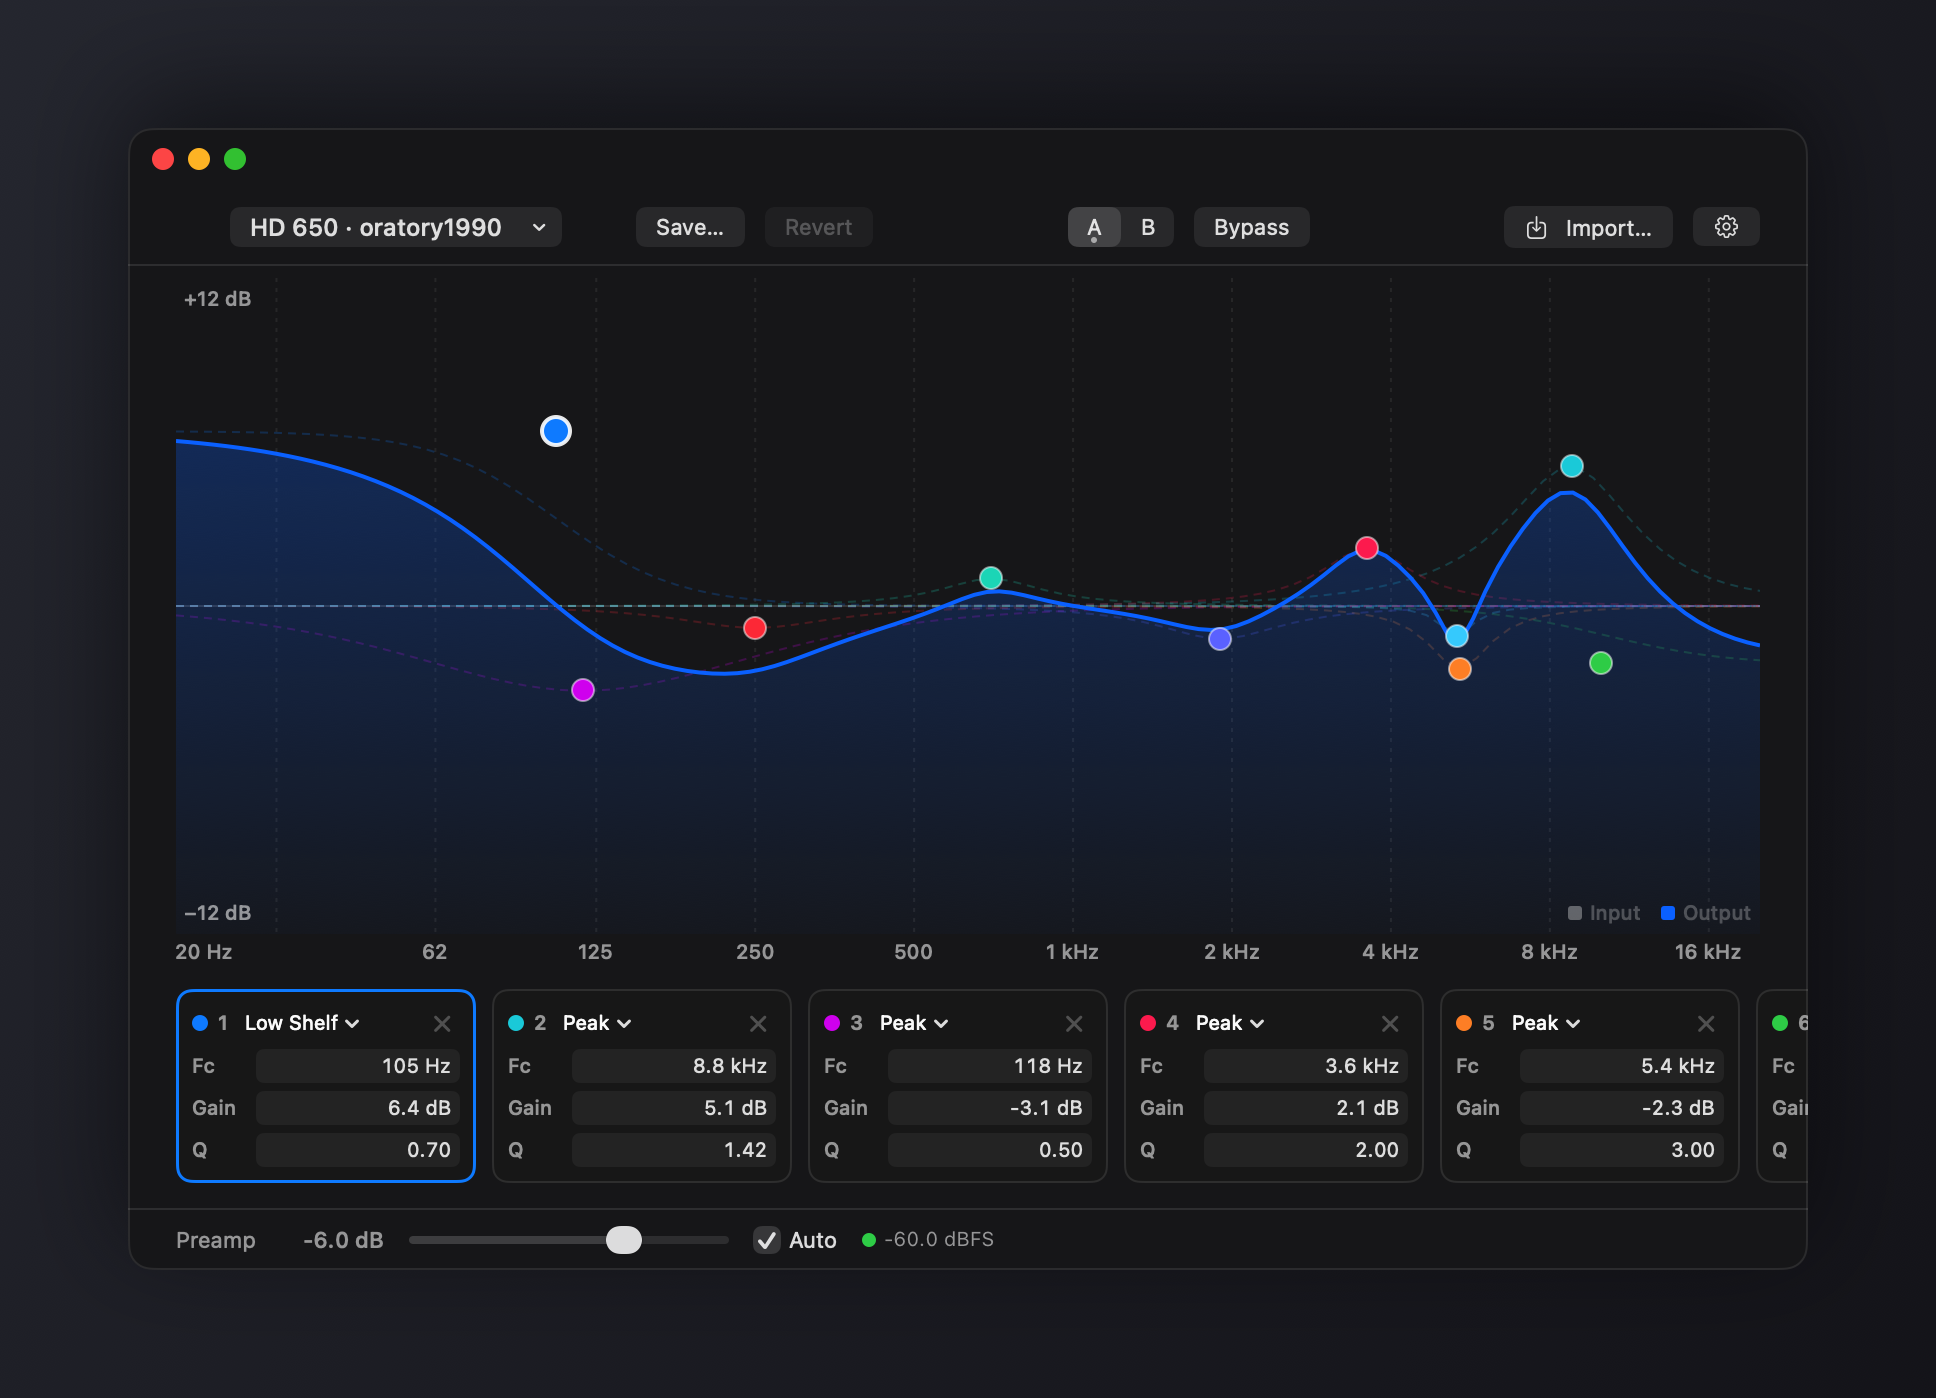
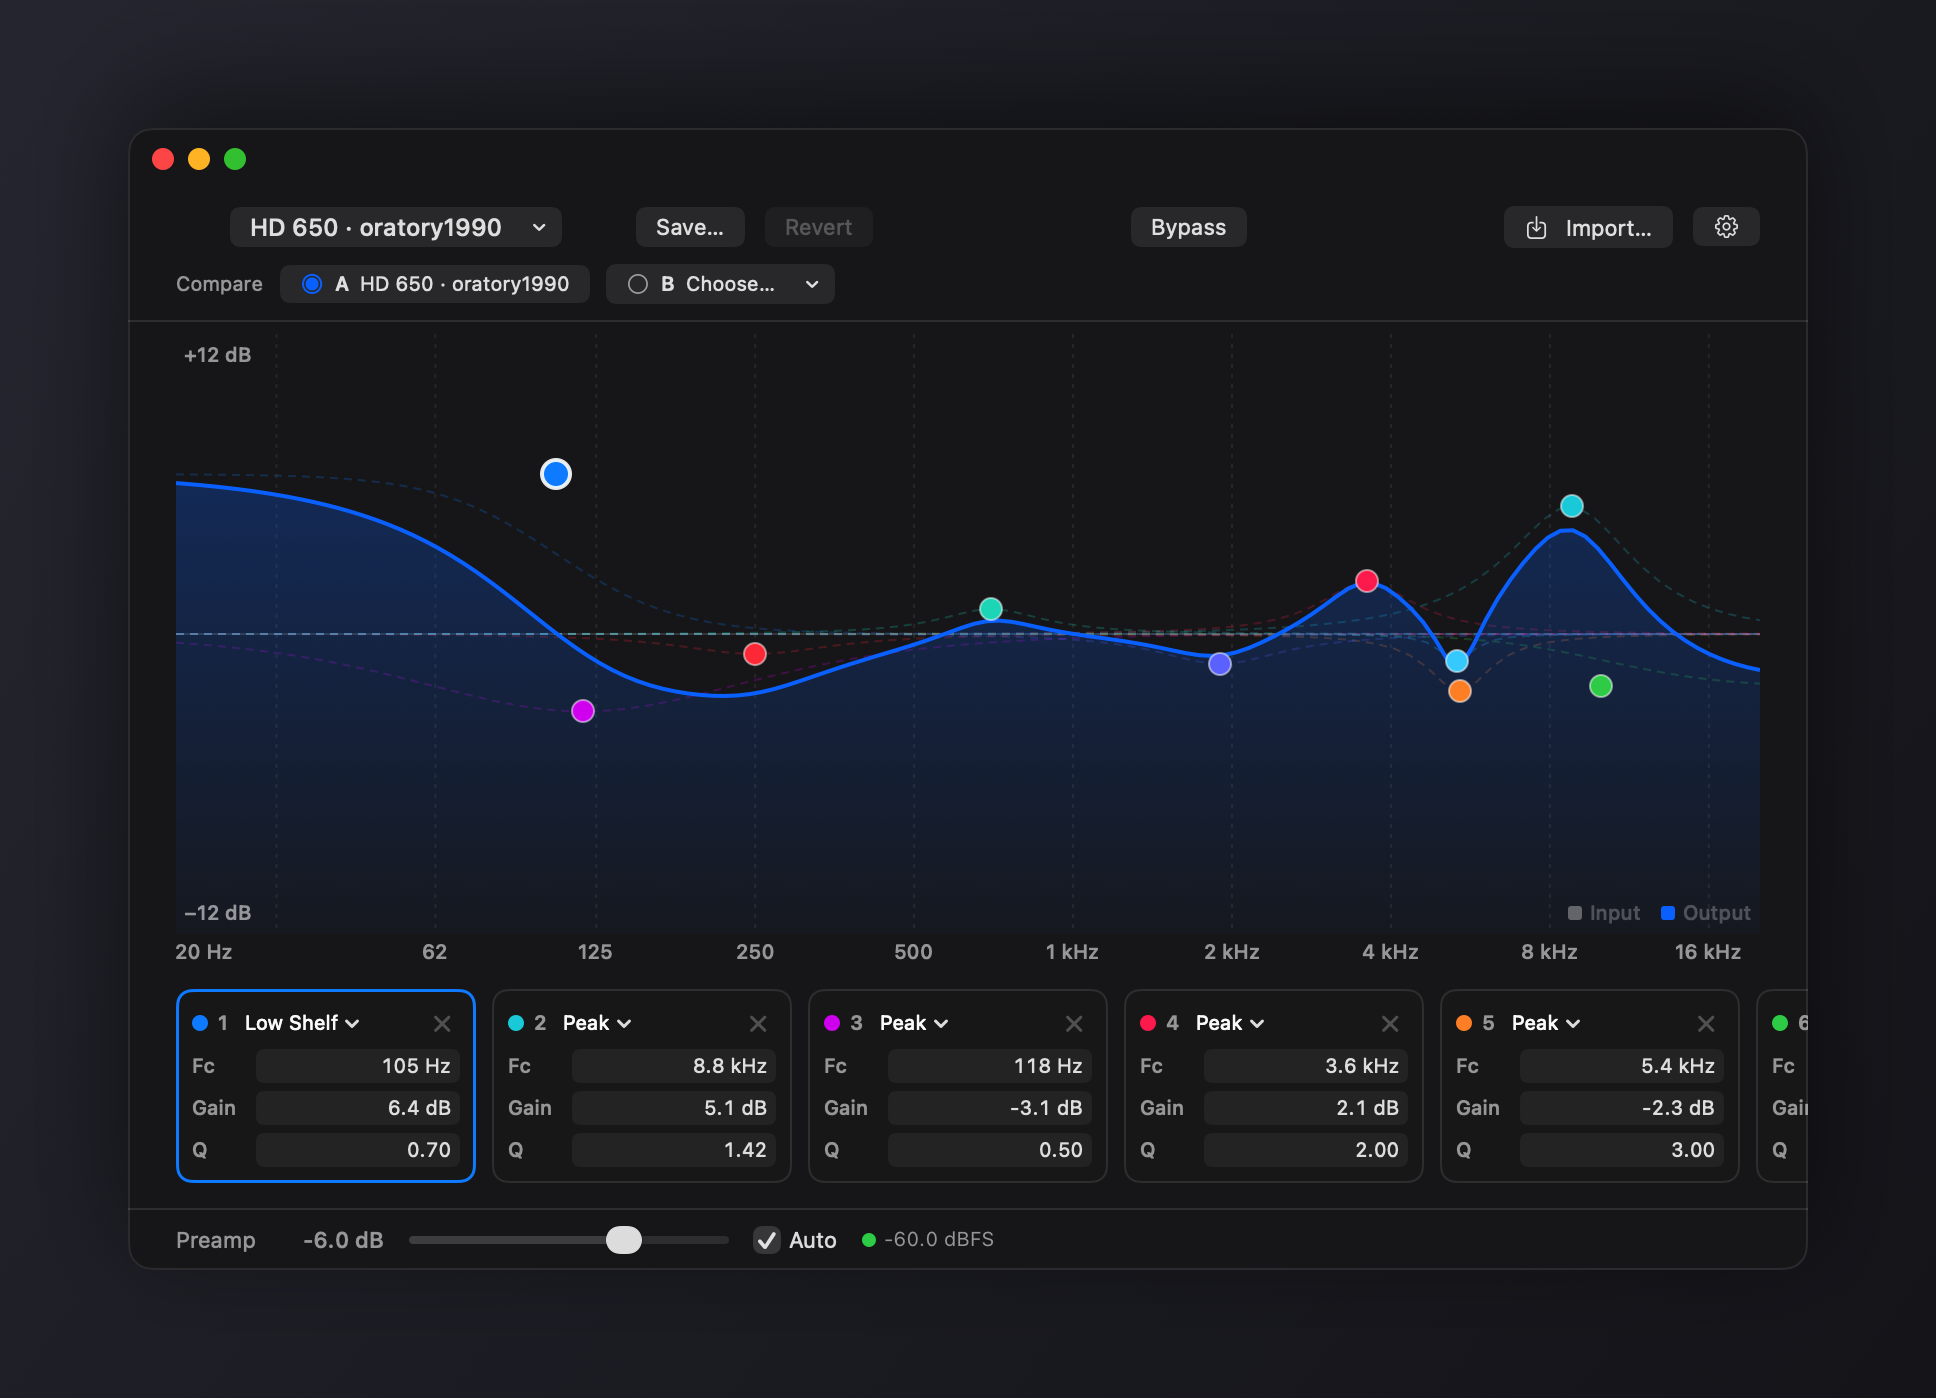
feat: replace segmented A/B with named compare slots (#35)
A Compare row under the toolbar shows two pills, each naming the curve
it holds and marking edits. The selected pill is the working copy; the
other is the reference. An empty slot is a Choose… menu of presets plus
Import…; compare(with:inSlot:) fills it and switches as one undo step.
The segmented picker and its dots are gone.

diff --git a/Sources/OnlyEQ/UI/EditorView.swift b/Sources/OnlyEQ/UI/EditorView.swift
@@ -35,6 +35,7 @@ struct EditorView: View {
                 SettingsView()
             } else {
                 toolbar
+                compareRow
                 Divider()
                 graph
                 bandStrip
@@ -61,22 +62,79 @@ struct EditorView: View {
         }
     }
 
-    // MARK: - A/B
+    // MARK: - Compare (A/B)
 
-    private func abSlotIsFilled(_ slot: Int) -> Bool {
-        slot == state.abSlot || state.otherABSlotIsFilled
+    /// Two slots. The selected one is the working copy: what you hear and
+    /// edit. The other waits unchanged as the reference. Each pill names the
+    /// curve it holds, so nothing about the mechanism has to be guessed.
+    private var compareRow: some View {
+        HStack(spacing: 8) {
+            Text("Compare")
+                .font(.caption)
+                .foregroundStyle(.secondary)
+            slotPill(0)
+            slotPill(1)
+            Spacer()
+        }
+        .controlSize(.small)
+        .padding(.horizontal, 24)
+        .padding(.bottom, 8)
+        .help("Two slots. The selected one is what you hear and edit; the other waits unchanged. Switching is level-matched.")
     }
 
-    private var abStatus: String {
-        let other = state.abSlot == 0 ? "B" : "A"
-        return state.otherABSlotIsFilled ? "\(other) holds a curve" : "\(other) is empty"
+    @ViewBuilder
+    private func slotPill(_ slot: Int) -> some View {
+        let letter = slot == 0 ? "A" : "B"
+        let isSelected = state.abSlot == slot
+        if let held = state.abPreset(inSlot: slot) {
+            let name = held.name + (state.abSlotIsModified(slot) ? " (edited)" : "")
+            Button {
+                state.storeABAndSwitch(to: slot, undoManager: undoManager)
+            } label: {
+                slotLabel(letter, name: name, isSelected: isSelected)
+            }
+            .buttonStyle(.bordered)
+            .tint(isSelected ? Color.accentColor : nil)
+            .help(isSelected
+                  ? "\(letter): \(name). Selected: this is what you hear and edit."
+                  : "\(letter): \(name). Waiting unchanged. Click to switch, level-matched.")
+            .accessibilityLabel("Slot \(letter), \(name)")
+            .accessibilityAddTraits(isSelected ? [.isSelected] : [])
+        } else {
+            Menu {
+                ForEach(state.store.allPresets) { preset in
+                    Button(preset.name) {
+                        state.compare(with: preset, inSlot: slot, undoManager: undoManager)
+                    }
+                }
+                Divider()
+                Button("Import…") {
+                    state.storeABAndSwitch(to: slot, undoManager: undoManager)
+                    importPresentation = ImportPresentation(profileSuggestion: nil)
+                }
+            } label: {
+                // A macOS Menu label keeps only one Text, so this one is concatenated.
+                (Text(Image(systemName: "circle")).foregroundColor(.secondary)
+                    + Text("  \(letter)  ").fontWeight(.semibold)
+                    + Text("Choose…"))
+                    .font(.caption)
+            }
+            .fixedSize()
+            .help("Pick a preset or import one to compare against \(slot == 0 ? "B" : "A"). Nothing is saved until you press Save.")
+            .accessibilityLabel("Slot \(letter), empty. Choose a preset to compare")
+        }
     }
 
-    private var abHelp: String {
-        let other = state.abSlot == 0 ? "B" : "A"
-        return state.otherABSlotIsFilled
-            ? "Compare two versions. Switching stores the current curve in the slot you leave."
-            : "Compare two versions. \(other) is empty; switching copies the current curve into it."
+    private func slotLabel(_ letter: String, name: String, isSelected: Bool) -> some View {
+        HStack(spacing: 5) {
+            Image(systemName: isSelected ? "largecircle.fill.circle" : "circle")
+                .font(.caption2)
+                .foregroundStyle(isSelected ? Color.accentColor : Color.secondary)
+            Text(letter).font(.caption.weight(.semibold))
+            Text(name).font(.caption).lineLimit(1).truncationMode(.middle)
+                .frame(maxWidth: 200)
+        }
+        .fixedSize()
     }
 
     // MARK: - Toolbar
@@ -114,34 +172,6 @@ struct EditorView: View {
                 .help("Discard edits and return to the saved preset")
 
             Spacer()
-
-            Picker("A/B", selection: Binding(
-                get: { state.abSlot },
-                set: { state.storeABAndSwitch(to: $0, undoManager: undoManager) }
-            )) {
-                Text("A").tag(0)
-                Text("B").tag(1)
-            }
-            .pickerStyle(.segmented)
-            .labelsHidden()
-            .fixedSize()
-            // A dot under each slot that holds a curve, so an empty slot is
-            // visible before the first switch copies into it.
-            .overlay(alignment: .bottom) {
-                HStack(spacing: 0) {
-                    ForEach(0..<2, id: \.self) { slot in
-                        Circle()
-                            .fill(abSlotIsFilled(slot) ? Color.secondary : .clear)
-                            .frame(width: 3, height: 3)
-                            .frame(maxWidth: .infinity)
-                    }
-                }
-                .frame(maxWidth: .infinity)
-                .padding(.bottom, 2)
-                .allowsHitTesting(false)
-            }
-            .accessibilityValue(abStatus)
-            .help(abHelp)
 
             Toggle("Bypass", isOn: $state.bypassed)
                 .toggleStyle(.button)

diff --git a/Sources/OnlyEQ/App/AppState.swift b/Sources/OnlyEQ/App/AppState.swift
@@ -601,9 +601,18 @@ final class AppState: ObservableObject {
 
     // MARK: - A/B
 
-    /// True when the slot not currently in use already holds a curve. Until
-    /// then, switching copies the current curve into it.
-    var otherABSlotIsFilled: Bool { abPresets[1 - abSlot] != nil }
+    /// The curve a slot holds: the working preset for the selected slot, the
+    /// stored copy for the other, nil while the other slot is still empty.
+    func abPreset(inSlot slot: Int) -> EQPreset? {
+        slot == abSlot ? preset : abPresets[slot]
+    }
+
+    /// True when the curve in `slot` differs from the stored preset it came from.
+    func abSlotIsModified(_ slot: Int) -> Bool {
+        guard let held = abPreset(inSlot: slot),
+              let saved = store.allPresets.first(where: { $0.id == held.id }) else { return false }
+        return saved != held
+    }
 
     private struct ABSnapshot {
         var preset: EQPreset
@@ -624,7 +633,18 @@ final class AppState: ObservableObject {
         registerABUndo(restoring: before, undoManager: undoManager)
     }
 
-    private func registerABUndo(restoring snapshot: ABSnapshot, undoManager: UndoManager?) {
+    /// Puts `newPreset` in `slot` and switches to it, keeping the other slot
+    /// as the reference. One undo step.
+    func compare(with newPreset: EQPreset, inSlot slot: Int, undoManager: UndoManager? = nil) {
+        let before = abSnapshot
+        abPresets[abSlot] = preset
+        abSlot = slot
+        apply(newPreset)
+        registerABUndo(restoring: before, actionName: "Compare with \(newPreset.name)", undoManager: undoManager)
+    }
+
+    private func registerABUndo(restoring snapshot: ABSnapshot, actionName: String = "Switch A/B",
+                                undoManager: UndoManager?) {
         guard let undoManager else { return }
         undoManager.registerUndo(withTarget: self) { state in
             let current = state.abSnapshot
@@ -632,9 +652,9 @@ final class AppState: ObservableObject {
             state.abSlot = snapshot.slot
             state.preset = snapshot.preset
             state.flushWorkingPresetPersistence()
-            state.registerABUndo(restoring: current, undoManager: undoManager)
+            state.registerABUndo(restoring: current, actionName: actionName, undoManager: undoManager)
         }
-        undoManager.setActionName("Switch A/B")
+        undoManager.setActionName(actionName)
     }
 
     // MARK: - Volume

diff --git a/Sources/OnlyEQ/TestRunner.swift b/Sources/OnlyEQ/TestRunner.swift
@@ -632,14 +632,14 @@ enum TestRunner {
             let a = EQPreset(name: "A", bands: [EQBand(type: .peak, frequency: 1000, gain: 3, q: 1)])
             state.apply(a)
             if state.abSlot != 0 { state.storeABAndSwitch(to: 0) }
-            expect(!state.otherABSlotIsFilled || state.abSlot == 0, "test starts in slot A")
+            expect(state.abSlot == 0, "test starts in slot A")
 
             undo.beginUndoGrouping()
             state.storeABAndSwitch(to: 1, undoManager: undo)
             undo.endUndoGrouping()
             expect(state.abSlot == 1, "switching selects slot B")
             expect(state.preset == a, "an empty B starts as a copy of A")
-            expect(state.otherABSlotIsFilled, "A holds the curve that was left")
+            expect(state.abPreset(inSlot: 0) == a, "A holds the curve that was left")
             expect(undo.undoActionName == "Switch A/B", "the switch is an undo step")
 
             state.preset.bands[0].gain = -4
@@ -657,6 +657,20 @@ enum TestRunner {
             undo.removeAllActions()
             state.storeABAndSwitch(to: 0, undoManager: undo)
             expect(!undo.canUndo, "switching to the active slot registers nothing")
+
+            // Choosing a preset for a slot fills it and switches to it.
+            let c = EQPreset(name: "C", bands: [EQBand(type: .peak, frequency: 500, gain: 2, q: 1)])
+            undo.beginUndoGrouping()
+            state.compare(with: c, inSlot: 1, undoManager: undo)
+            undo.endUndoGrouping()
+            expect(state.abSlot == 1 && state.preset == c, "choosing a preset for B selects B holding it")
+            expect(state.abPreset(inSlot: 0) == a, "A keeps its curve as the reference")
+            expect(undo.undoActionName == "Compare with C", "the choice is one named undo step")
+            undo.undo()
+            expect(state.abSlot == 0 && state.preset == a && state.abPreset(inSlot: 1) == b,
+                   "undo restores the slot that was replaced")
+            state.preset.bands[0].gain = 9
+            expect(state.abSlotIsModified(0) == false, "an unsaved working preset is not marked edited")
         }
     }
 

diff --git a/README.md b/README.md
@@ -67,7 +67,7 @@ OnlyEQ checks for signed updates automatically and installs them in the backgrou
 - Parametric EQ with a draggable curve editor. Peak, shelves, high/low pass, notch, band pass — as many bands as you want. Every edit undoes with Cmd-Z. Arrow keys nudge the selected band (Option for fine steps), Delete removes it, and VoiceOver reads and adjusts every handle.
 - Imports every headphone EQ format I could find: AutoEq, Equalizer APO, peqdb, Wavelet/GraphicEQ, Poweramp, OPRA, Peace, REW, eqMac. Drop a file, paste text, or search the peqdb and AutoEq databases from inside the app. Anything you apply is saved and stays in the preset picker.
 - Per-device profiles. Your headphone preset kicks in when the headphones connect; your speakers keep theirs.
-- Volume boost up to 200%, automatic preamp so boosted EQ doesn't clip, a limiter as a safety net, A/B compare, one-click bypass. Bypass keeps the preamp and matches loudness to the EQ'd signal, so the comparison is about tone instead of the louder side winning.
+- Volume boost up to 200%, automatic preamp so boosted EQ doesn't clip, a limiter as a safety net, a Compare row with two named slots (the selected one is what you hear and edit, the other waits as the reference), one-click bypass. Bypass keeps the preamp and matches loudness to the EQ'd signal, so the comparison is about tone instead of the louder side winning.
 - Loudness compensation: raises bass and treble as you turn the volume down below a reference level you set, following the equal-loudness contours, so quiet listening keeps its balance.
 - Crossfeed for headphones: blends a little low-passed, delayed signal from each channel into the other, so hard-panned recordings sound less split. Toggle it from the popover; the amount is in Settings.
 - An exclude list for apps that handle their own audio (DAWs, Zoom).

diff --git a/release-notes/1.3.22.md b/release-notes/1.3.22.md
@@ -1,0 +1,5 @@
+# OnlyEQ 1.3.22
+
+- The A/B control is now a Compare row under the toolbar with two named slots. Each slot shows the preset it holds, with "(edited)" when the curve differs from the saved preset. The selected slot is what you hear and edit; the other waits unchanged.
+- An empty slot reads "Choose…" and opens the preset list (or Import…). Choosing fills the slot and switches to it. Nothing is saved until you press Save, and the tooltips say so.
+- Choosing a preset for a slot is one undo step, named "Compare with <preset>".
